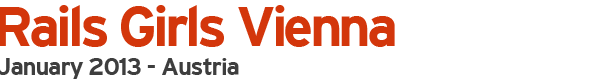
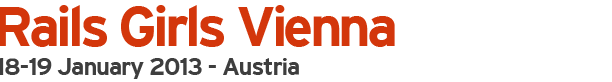
header img now features date; added venue, date, new coaches to page

Changed region(s): [[0.0, 0.7073, 0.4967, 0.9756]]

diff --git a/vienna.html b/vienna.html
@@ -37,7 +37,18 @@
 	    </style>
 		
 	</head>
-	<body>	
+	<body>
+		<!-- start Facebook "like" box -->
+		<div id="fb-root"></div>
+		<script>(function(d, s, id) {
+		  var js, fjs = d.getElementsByTagName(s)[0];
+		  if (d.getElementById(id)) return;
+		  js = d.createElement(s); js.id = id;
+		  js.src = "//connect.facebook.net/en_GB/all.js#xfbml=1&appId=138894112928656";
+		  fjs.parentNode.insertBefore(js, fjs);
+		}(document, 'script', 'facebook-jssdk'));</script>
+		<!-- end Facebook "like" box -->
+	
 	    <header>
 		    <div class="container_12">
 		        <a id="logo" href="/"><img src="images/railsgirls-logo.png" alt="Rails Girls" /></a>
@@ -80,13 +91,17 @@
 					<h1>Rails Girls Vienna January 2013</h1>
 					<p>Hallo, Wien!</p>
 					<p>
-					Rails Girls is coming to <strong>Vienna</strong>! During this free two-day workshop we'll dive into the magical world of programming with Ruby on Rails.
+					Rails Girls is coming to <strong>Vienna</strong> on 18 and 19 January 2013!
+					<br>
+					During this free two-day workshop we'll dive into the magical world of programming with Ruby on Rails.
 					</p>
 					<p>
-					Applications will open in December!
+					Applications will open later in December. Meanwhile, follow us on Twitter <a href="http://twitter.com/RailsGirls_VIE">@RailsGirls_VIE</a> or like our <a href="https://www.facebook.com/RailsGirlsVienna">Facebook Page</a> for updates!
+					</p>
+					<p>
+					
 					<!-- Apply now! <a href="http://railsgirls.wufoo.com/forms/z7x0w7/">Applications</a> are open until the 10th of September.-->
-					<br>
-					Meanwhile, follow us on Twitter for updates: <a href="http://twitter.com/RailsGirls_VIE">@RailsGirls_VIE</a>!
+					
 					<!-- Apply now! <a href="http://railsgirls.wufoo.com/forms/z7x0w7/">Applications</a> are open until the 10th of September.-->
 					</p>
 	
@@ -97,10 +112,12 @@
 							<div style="margin:0 15px 0 0;">
 
 <!--								<a href="http://twitter.com/share" class="twitter-share-button" data-url="" data-text="Rails Girls (insert city) (insert date)  - apply now!" data-count="horizontal" data-via="railsgirls" data-related="railsgirls">Tweet</a> -->
-								<a href="http://twitter.com/share" class="twitter-share-button" data-url="" data-text="Rails Girls is coming to Vienna in January 2013!" data-count="horizontal" data-via="railsgirls" data-related="railsgirls">Tweet</a>
+								<a href="http://twitter.com/share" class="twitter-share-button" data-url="" data-text="Rails Girls is coming to Vienna in January 2013!" data-count="horizontal" data-via="RailsGirls_VIE" data-related="railsgirls">Tweet</a>
 								<script type="text/javascript" src="http://platform.twitter.com/widgets.js"></script>
 								<a href="https://twitter.com/RailsGirls_VIE" class="twitter-follow-button" data-show-count="true" data-lang="en">Follow @RailsGirls_VIE</a>								
 								<script type="text/javascript" src="http://platform.twitter.com/widgets.js"></script>
+
+								<div class="fb-like-box" data-href="http://www.facebook.com/RailsGirlsVienna" data-width="292" data-show-faces="false" data-stream="false" data-header="false"></div>
 							</div>
 <!--							
 							<div id="fb-root" style=""></div>
@@ -110,11 +127,10 @@
 							</div>
 						</div>
 					</div>
-					<p>
-					</p>	
+	
 				</div>
 
-				<hr />
+				<hr>
 				
 					
 <!--  You can use here your own contact e-mail, or we can send you the e-mails from contact@! -->	  
@@ -143,7 +159,7 @@
 	<!--
 					<h2>Friday xxth Month</h2>
 	-->
-				    <h2>Friday</h2>
+				    <h2>Friday, 18 January</h2>
 				    
 					<table id="schedule">
 						<tbody>
@@ -172,7 +188,7 @@
 <!--
 					<h2>Saturday xxth month</h2>
 -->
-					<h2>Saturday</h2>
+					<h2>Saturday, 19 January</h2>
 					
 
 					<table id="schedule">
@@ -280,13 +296,13 @@
 					<h3>Information</h3>
 					<p>
 						<p>
-						<strong>Applications open:</strong> December 2012 (watch this space!)<br/>
+						<strong>Applications open:</strong> mid-December 2012<br/>
 <!--
 						<strong><a href="http://railsgirls.wufoo.com/forms/apply-to-rails-girls-cologne-2828-september/">Applications</a> close:</strong> September 10th<br/>
 						<strong>Acceptances informed:</strong>September 13th
 						</p>
 -->
-						<strong>Location:</strong> TBA
+						<strong>Location:</strong> <a href="http://vienna.the-hub.net/">The Hub Vienna</a>
 					</p>
 					
 	<!-- Feel free to group the sponsors as you wish. E.g media, friends, premium sponsors etc. You know best the situation in your city! Pictures should be either 100 x 100px or 250 x 90px -->
@@ -339,13 +355,9 @@
 					<small>@shuabee</small>
 					</a>
 					<a href="https://twitter.com/PHenriettaK" class="grid_3">
-					Henrietta Kekäläinen, organiser
+					Henrietta Kekäläinen, advisor
 					<small>@PHenriettaK</small>
-					</a>
-					<a href="https://twitter.com/floordrees" class="grid_3">
-					Floor Drees, organiser
-					<small>@floordrees</small>
-					</a>					
+					</a>				
 					<a href="https://twitter.com/kschoef" class="grid_3">
 					Karin Schöfegger, organiser&nbsp;&amp;&nbsp;coach
 					<small>@kschoef</small>
@@ -353,10 +365,6 @@
 					<a href="https://twitter.com/consti" class="grid_3">
 					Constantin Hofstetter, organiser&nbsp;&amp;&nbsp;coach
 					<small>@consti</small>
-					</a>
-					<a href="https://twitter.com/bastilian" class="grid_3">
-					Sebastian Grässl, organiser&nbsp;&amp;&nbsp;coach
-					<small>@bastilian</small>
 					</a>
 					<a href="https://twitter.com/johdax" class="grid_3">
 					Johannes Daxböck, coach
@@ -385,14 +393,18 @@
 					<a href="https://twitter.com/therod" class="grid_3">
 					Rodrigo Haenggi, coach
 					<small>@therod </small>
-					</a>						
-					<a href="https://twitter.com/tony_xpro" class="grid_3">
-					Anton Bangratz, coach
-					<small>@tony_xpro</small>
+					</a>										
+					<a href="https://twitter.com/kommen" class="grid_3">
+					Dieter Komendera, coach
+					<small>@kommen</small>
 					</a>					
 					<a href="https://twitter.com/fadr" class="grid_3">
 					Thomas Fadrus, coach
 					<small>@fadr</small>
+					<a href="https://twitter.com/michaelem" class="grid_3">
+					Michael Emhofer, coach
+					<small>@michaelem</small>
+					</a>
 					</a>
 				</div>			
 			</div>
